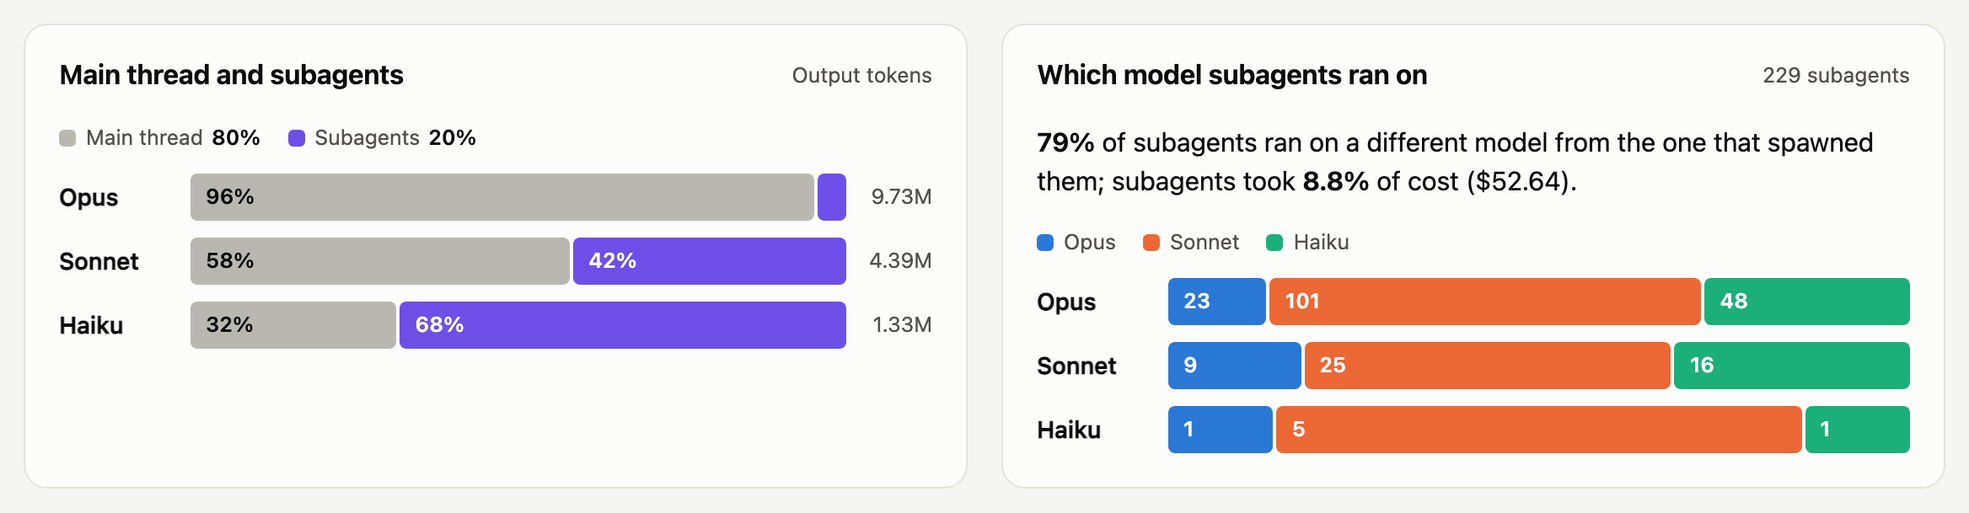
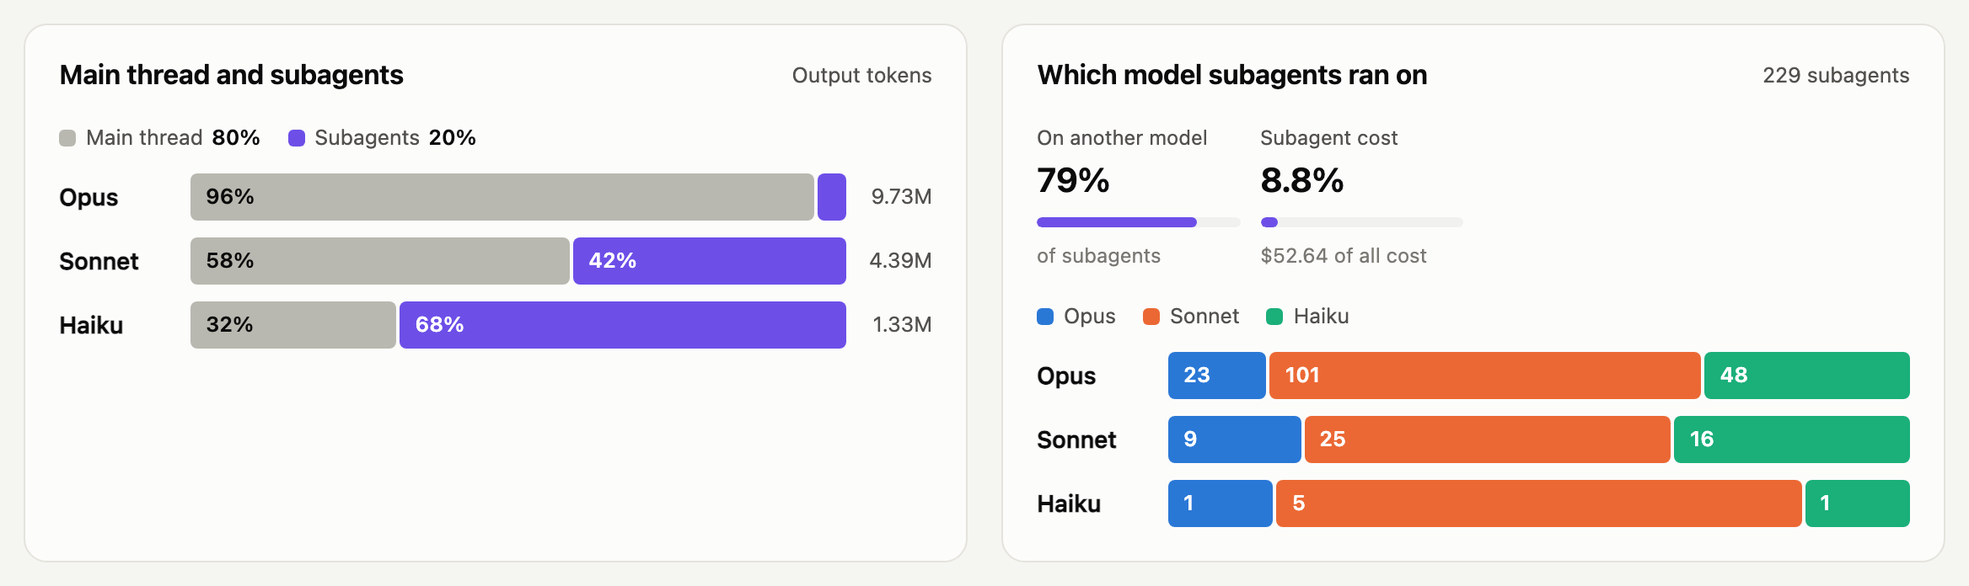
feat(dashboard): show card headlines as figures with meters and dots instead of sentences

diff --git a/dashboard/src/i18n.tsx b/dashboard/src/i18n.tsx
@@ -3,9 +3,9 @@ export const T = {
   vi: { usage: "Sử dụng", overview: "Tổng quan", projects: "Dự án", sessions: "Phiên làm việc", models: "Model & effort", subagents: "Subagent", activity: "Hoạt động",
     scanned: "Quét lúc", untitled: "(chưa có tiêu đề)", costUnknown: "Không có bản ghi chi phí của host", costEstimated: "Không có bản ghi chi phí của host; ước tính theo bảng giá", costPartial: "Host đánh dấu chi phí chưa đủ", today: "Hôm nay", perHour: "Theo giờ", hour: "Giờ", d7: "7 ngày", d14: "14 ngày", d30: "30 ngày", all: "Tất cả", dates: "Khoảng ngày", prevMonth: "Tháng trước", nextMonth: "Tháng sau", clear: "Xoá", allProjects: "Tất cả dự án", allModels: "Tất cả model", project: "Dự án", model: "Model", reset: "Bỏ lọc",
     out: "Output token", cost: "Chi phí", costList: "Chi phí niêm yết", sess: "Phiên", cache: "Đọc từ cache", saved: "Cache tiết kiệm", bars: "Dạng cột", areas: "Dạng vùng", shares: "Mỗi cột 100%", savedTip: "So với gửi lại cả context làm input ở mỗi request, đã trừ phần ghi cache trả thêm", perM: "$ / 1M token", behave: "Mỗi model làm việc thế nào", bOut: "Output mỗi request", bThink: "Thinking trong output", bSteps: "Request mỗi lượt owner", bTools: "Tool call mỗi request", bFail: "Tool call lỗi", bSpeed: "Tốc độ output", oneModel: "Phiên chỉ dùng model này", speed: "Tốc độ", tps: "token/giây", vsPrev: "so với kỳ trước", noPrev: "chưa có kỳ trước",
-    perDay: "Theo ngày", topProjects: "Dự án dùng nhiều nhất", seeAll: "Xem tất cả", hours: "Khung giờ làm việc", peak: "Cao điểm", toolCount: "công cụ", toolLead: (n: string, p: string, w: string, tool: string) => <><b>{n}</b> lượt lỗi ({p}); <b>{w}</b> trong số đó là {tool}.</>, idleLead: (usd: string, p: string) => <>Mỗi lần dựng lại sau khi nghỉ tốn thêm trung bình <b>{usd}</b>; <b>{p}</b> xảy ra sau hơn 1 giờ.</>, weekend: "Cuối tuần", sameHour: "Phiên cùng giờ", atMost: (n: string) => `thường vậy, nhiều nhất ${n}`, perTurn: "Agent làm mỗi lượt owner", topSessions: "Phiên lớn nhất", dailyTable: "Bảng số liệu theo ngày", hourlyTable: "Bảng số liệu theo giờ",
+    perDay: "Theo ngày", topProjects: "Dự án dùng nhiều nhất", seeAll: "Xem tất cả", hours: "Khung giờ làm việc", peak: "Cao điểm", perBreak: "Tốn thêm mỗi lần", onAverage: "trung bình", overHour: "Sau hơn 1 giờ", ofRebuilds: "số lần dựng lại", failed: "Lượt lỗi", ofCalls: (p: string) => `${p} số lượt gọi`, fromTool: (n: string) => `Từ ${n}`, ofFailures: "số lượt lỗi", otherModel: "Khác model đã gọi", ofSubagents: "số subagent", subCost: "Chi phí subagent", ofAllCost: (usd: string) => `${usd} trong tổng chi phí`, belowMain: "Thấp hơn mức phiên", aboveMain: "Cao hơn mức phiên", ofSubReq: "request của subagent", toolCount: "công cụ", weekend: "Cuối tuần", sameHour: "Phiên cùng giờ", atMost: (n: string) => `thường vậy, nhiều nhất ${n}`, perTurn: "Agent làm mỗi lượt owner", topSessions: "Phiên lớn nhất", dailyTable: "Bảng số liệu theo ngày", hourlyTable: "Bảng số liệu theo giờ",
     day: "Ngày", total: "Tổng", start: "Bắt đầu", title: "Tiêu đề", dur: "Thời lượng", turns: "Lượt owner", subs: "Subagent", activeDays: "Ngày hoạt động", mainModel: "Model chính", trend: "Xu hướng", other: "Khác", search: "Tìm tiêu đề, dự án…", shown: "phiên", more: "Hiện thêm",
-    requests: "Request", input: "Input", thinking: "Thinking", cacheRead: "Cache đọc", cacheWrite: "Cache ghi", share: "Tỷ trọng", allEfforts: "Mọi effort", effShare: "Mỗi mức effort chiếm bao nhiêu", leadMore: (n: string, q: string, c: string) => <><b>{n}</b> chiếm {q} số request nhưng tới <b>{c}</b> chi phí.</>, leadLess: (n: string, q: string, c: string) => <><b>{n}</b> chiếm {q} số request và chỉ {c} chi phí.</>, routedLead: (p: string, c: string, usd: string) => <><b>{p}</b> subagent chạy trên model khác với model đã gọi nó; subagent chiếm <b>{c}</b> chi phí ({usd}).</>, subEffLead: (lo: string | null, hi: string | null) => (lo && hi ? <><b>{lo}</b> request của subagent chạy ở effort thấp hơn mức chính của phiên và <b>{hi}</b> cao hơn.</> : lo ? <><b>{lo}</b> request của subagent chạy ở effort thấp hơn mức chính của phiên, không request nào cao hơn.</> : hi ? <><b>{hi}</b> request của subagent chạy ở effort cao hơn mức chính của phiên, không request nào thấp hơn.</> : <>Mọi request của subagent chạy đúng mức effort chính của phiên.</>), price: "Output mỗi request theo mức effort", priceInfo: "Số lớn là output trung bình mỗi request ở mức đó, thinking tính cả. Phần lớn phiên giữ một mức suốt phiên, nên so thẳng hai mức là so hai nhóm việc khác nhau. Vì vậy dòng \"× high\" chỉ so trong những phiên chạy cả mức đó lẫn high, mỗi mức ít nhất 5 request, rồi lấy trung vị. Dưới 3 phiên như vậy thì không ghi.", vsLevel: "So với", nBoth: (n: number) => `trong ${n} phiên chạy cả hai mức`, fewBoth: (n: number) => (n ? `chỉ ${n} phiên chạy cả hai mức, chưa đủ để so` : "chưa phiên nào chạy cả hai mức"), perReq: "/ request", costShare: "Tỷ trọng chi phí", subEffort: "Effort của subagent", switches: "phiên đã đổi effort", effort: "Effort", subTypes: "Subagent theo loại", count: "Số lần", ranOn: "Chạy trên",
+    requests: "Request", input: "Input", thinking: "Thinking", cacheRead: "Cache đọc", cacheWrite: "Cache ghi", share: "Tỷ trọng", allEfforts: "Mọi effort", effShare: "Mỗi mức effort chiếm bao nhiêu", leadMore: (n: string, q: string, c: string) => <><b>{n}</b> chiếm {q} số request nhưng tới <b>{c}</b> chi phí.</>, leadLess: (n: string, q: string, c: string) => <><b>{n}</b> chiếm {q} số request và chỉ {c} chi phí.</>, price: "Output mỗi request theo mức effort", priceInfo: "Số lớn là output trung bình mỗi request ở mức đó, thinking tính cả. Phần lớn phiên giữ một mức suốt phiên, nên so thẳng hai mức là so hai nhóm việc khác nhau. Vì vậy dòng \"× high\" chỉ so trong những phiên chạy cả mức đó lẫn high, mỗi mức ít nhất 5 request, rồi lấy trung vị. Dưới 3 phiên như vậy thì không ghi.", vsLevel: "So với", nBoth: (n: number) => `trong ${n} phiên chạy cả hai mức`, fewBoth: (n: number) => (n ? `chỉ ${n} phiên chạy cả hai mức, chưa đủ để so` : "chưa phiên nào chạy cả hai mức"), perReq: "/ request", costShare: "Tỷ trọng chi phí", subEffort: "Effort của subagent", switches: "phiên đã đổi effort", effort: "Effort", subTypes: "Subagent theo loại", count: "Số lần", ranOn: "Chạy trên",
     rebuilt: "Cache bị dựng lại", rbIdle: "Sau khi nghỉ", rbCompaction: "Khi nén context", rbOther: "Khác", rbStart: "Đầu phiên", rbIdleTip: "quay lại sau khi cache hết hạn (5 phút, hoặc 1 giờ nếu dùng cache 1h). Đây là phần tránh được.", rbCompactionTip: "context vừa được nén nên phải ghi lại.", rbOtherTip: "phần đầu prompt đổi mà transcript không cho biết lý do.", rbStartTip: "request đầu của phiên hoặc subagent, không tránh được.",
     rbInfo: "Mỗi request đọc lại cuộc trò chuyện từ prompt cache với giá rẻ. Khi cache mất, request đó phải ghi lại gần hết context vào cache, đắt gấp 25–40 lần đọc. Bảng đếm các lần ghi lại theo nguyên nhân; chi phí thêm là phần trả hơn so với chỉ đọc.", howToRead: "Cách đọc",
     rbTokens: "Token ghi lại", rbExtra: "Chi phí thêm", gapShort: "5–15 phút", gapMid: "15–60 phút", gapLong: "Trên 1 giờ", idleGap: "Đã nghỉ bao lâu trước lần dựng lại", lapses: "Cache hết hạn", session: "Phiên", modelEffort: "Model · effort", nSubs: (n: number) => `${n} subagent`, nLapses: (n: number) => `${n} lần cache hết hạn`, onlySub: "chỉ chạy làm subagent, không trả lời owner", fewReq: (n: string) => `chỉ ${n} request, chưa đủ 20`, fewTurns: (n: string) => `chỉ ${n} lượt owner, chưa đủ 20`, fewCalls: (n: string) => `chỉ ${n} tool call, chưa đủ 20`, fewAlone: (n: number) => (n ? `chỉ ${n} phiên dùng riêng model này, chưa đủ 3` : "không phiên nào dùng riêng model này"),
@@ -17,9 +17,9 @@ export const T = {
   en: { usage: "Usage", overview: "Overview", projects: "Projects", sessions: "Sessions", models: "Models & effort", subagents: "Subagents", activity: "Activity",
     scanned: "Scanned", untitled: "(untitled)", costUnknown: "No cost record from the host", costEstimated: "No cost record from the host; estimated from the price table", costPartial: "The host marked this cost incomplete", today: "Today", perHour: "Per hour", hour: "Hour", d7: "7 days", d14: "14 days", d30: "30 days", all: "All", dates: "Date range", prevMonth: "Previous month", nextMonth: "Next month", clear: "Clear", allProjects: "All projects", allModels: "All models", project: "Project", model: "Model", reset: "Clear filters",
     out: "Output tokens", cost: "Cost", costList: "List-price cost", sess: "Sessions", cache: "Read from cache", saved: "Saved by cache", bars: "Columns", areas: "Areas", shares: "Each column as 100%", savedTip: "Against sending the whole context as input on every request, less what cache writes cost extra", perM: "$ / 1M tokens", behave: "How each model works", bOut: "Output per request", bThink: "Thinking share of output", bSteps: "Requests per owner turn", bTools: "Tool calls per request", bFail: "Failed tool calls", bSpeed: "Output speed", oneModel: "Sessions on this model only", speed: "Speed", tps: "tokens/s", vsPrev: "vs prev. period", noPrev: "no previous period",
-    perDay: "Per day", topProjects: "Top projects", seeAll: "See all", hours: "Working hours", peak: "Peak", toolCount: "tools", toolLead: (n: string, p: string, w: string, tool: string) => <><b>{n}</b> calls failed ({p}); <b>{w}</b> of them were {tool}.</>, idleLead: (usd: string, p: string) => <>Each rebuild after a break cost <b>{usd}</b> extra on average; <b>{p}</b> came after more than an hour.</>, weekend: "Weekends", sameHour: "Same-hour sessions", atMost: (n: string) => `typical, at most ${n}`, perTurn: "Agent work per owner turn", topSessions: "Largest sessions", dailyTable: "Daily figures", hourlyTable: "Hourly figures",
+    perDay: "Per day", topProjects: "Top projects", seeAll: "See all", hours: "Working hours", peak: "Peak", perBreak: "Extra per rebuild", onAverage: "on average", overHour: "After over an hour", ofRebuilds: "of rebuilds", failed: "Failed calls", ofCalls: (p: string) => `${p} of calls`, fromTool: (n: string) => `From ${n}`, ofFailures: "of failures", otherModel: "On another model", ofSubagents: "of subagents", subCost: "Subagent cost", ofAllCost: (usd: string) => `${usd} of all cost`, belowMain: "Below session level", aboveMain: "Above session level", ofSubReq: "of subagent requests", toolCount: "tools", weekend: "Weekends", sameHour: "Same-hour sessions", atMost: (n: string) => `typical, at most ${n}`, perTurn: "Agent work per owner turn", topSessions: "Largest sessions", dailyTable: "Daily figures", hourlyTable: "Hourly figures",
     day: "Day", total: "Total", start: "Start", title: "Title", dur: "Duration", turns: "Owner turns", subs: "Subagents", activeDays: "Active days", mainModel: "Main model", trend: "Trend", other: "Other", search: "Search title, project…", shown: "sessions", more: "Show more",
-    requests: "Requests", input: "Input", thinking: "Thinking", cacheRead: "Cache read", cacheWrite: "Cache write", share: "Share", allEfforts: "All efforts", effShare: "How much each effort level takes", leadMore: (n: string, q: string, c: string) => <><b>{n}</b> is {q} of requests but <b>{c}</b> of cost.</>, leadLess: (n: string, q: string, c: string) => <><b>{n}</b> is {q} of requests and only {c} of cost.</>, routedLead: (p: string, c: string, usd: string) => <><b>{p}</b> of subagents ran on a different model from the one that spawned them; subagents took <b>{c}</b> of cost ({usd}).</>, subEffLead: (lo: string | null, hi: string | null) => (lo && hi ? <><b>{lo}</b> of subagent requests ran below the session's main effort level and <b>{hi}</b> above.</> : lo ? <><b>{lo}</b> of subagent requests ran below the session's main effort level, none above.</> : hi ? <><b>{hi}</b> of subagent requests ran above the session's main effort level, none below.</> : <>Every subagent request ran at the session's main effort level.</>), price: "Output per request by effort level", priceInfo: "The large figure is the average output of one request at that level, thinking included. Most sessions keep one level throughout, so comparing two levels directly compares different work. The \"× high\" line therefore compares only sessions that ran both that level and high, with at least 5 requests at each, and takes the median. With fewer than 3 such sessions it is left out.", vsLevel: "Against", nBoth: (n: number) => `in ${n} session${n === 1 ? "" : "s"} that ran both levels`, fewBoth: (n: number) => (n ? `only ${n} session${n === 1 ? "" : "s"} ran both levels, too few to compare` : "no session ran both levels"), perReq: "/ request", costShare: "Share of cost", subEffort: "Subagent effort", switches: "sessions changed effort", effort: "Effort", subTypes: "Subagents by type", count: "Count", ranOn: "Ran on",
+    requests: "Requests", input: "Input", thinking: "Thinking", cacheRead: "Cache read", cacheWrite: "Cache write", share: "Share", allEfforts: "All efforts", effShare: "How much each effort level takes", leadMore: (n: string, q: string, c: string) => <><b>{n}</b> is {q} of requests but <b>{c}</b> of cost.</>, leadLess: (n: string, q: string, c: string) => <><b>{n}</b> is {q} of requests and only {c} of cost.</>, price: "Output per request by effort level", priceInfo: "The large figure is the average output of one request at that level, thinking included. Most sessions keep one level throughout, so comparing two levels directly compares different work. The \"× high\" line therefore compares only sessions that ran both that level and high, with at least 5 requests at each, and takes the median. With fewer than 3 such sessions it is left out.", vsLevel: "Against", nBoth: (n: number) => `in ${n} session${n === 1 ? "" : "s"} that ran both levels`, fewBoth: (n: number) => (n ? `only ${n} session${n === 1 ? "" : "s"} ran both levels, too few to compare` : "no session ran both levels"), perReq: "/ request", costShare: "Share of cost", subEffort: "Subagent effort", switches: "sessions changed effort", effort: "Effort", subTypes: "Subagents by type", count: "Count", ranOn: "Ran on",
     rebuilt: "Cache rebuilt", rbIdle: "After idle", rbCompaction: "At compaction", rbOther: "Other", rbStart: "At session start", rbIdleTip: "returned after the cache expired (5 minutes, or 1 hour with 1h cache). The avoidable part.", rbCompactionTip: "the context was just compacted.", rbOtherTip: "the start of the prompt changed for a reason the transcript does not show.", rbStartTip: "the first request of a session or subagent, unavoidable.",
     rbInfo: "Each request rereads the conversation from the prompt cache at a low price. When the cache is gone, the request writes most of the context into it again, at 25–40 times the read price. The table counts these rewrites by cause; extra cost is what they cost beyond a read.", howToRead: "How to read",
     rbTokens: "Rewritten tokens", rbExtra: "Extra cost", gapShort: "5–15 min", gapMid: "15–60 min", gapLong: "Over 1 h", idleGap: "Idle time before the rebuild", lapses: "Cache lapses", session: "Session", modelEffort: "Model · effort", nSubs: (n: number) => `${n} subagent${n === 1 ? "" : "s"}`, nLapses: (n: number) => `${n} cache lapse${n === 1 ? "" : "s"}`, onlySub: "runs only as a subagent, never answering the owner", fewReq: (n: string) => `only ${n} requests, fewer than 20`, fewTurns: (n: string) => `only ${n} owner turns, fewer than 20`, fewCalls: (n: string) => `only ${n} tool calls, fewer than 20`, fewAlone: (n: number) => (n ? `only ${n} session${n === 1 ? "" : "s"} on this model alone, fewer than 3` : "no session ran this model alone"),

diff --git a/dashboard/src/styles.css b/dashboard/src/styles.css
@@ -100,6 +100,7 @@ td .spark { margin: 0; }
 :root[data-theme="dark"] .split i.v3, :root[data-theme="dark"] .split i.v4 { color: #0b0b0b; }
 .lead { margin: 0 0 16px; font-size: 15.5px; line-height: 1.5; }
 .lead b { font-weight: 650; }
+.lead.accent { padding: 2px 0 2px 12px; border-left: 3px solid; }
 .shares { display: grid; grid-template-columns: max-content minmax(0, 1fr); align-items: center; gap: 10px 14px; }
 .shares > span { color: var(--ink2); font-size: 12.5px; }
 .shares .split { margin: 0; }
@@ -163,8 +164,12 @@ tbody tr.go:hover td, tbody tr.go:hover th { background: var(--wash); }
 .heat .cell { aspect-ratio: 1 / 1; max-height: 26px; width: 100%; border-radius: 3px; background: color-mix(in srgb, var(--seq) var(--m), var(--wash)); }
 .heat .cell:hover { outline: 2px solid var(--ink); outline-offset: -1px; }
 .hstats { display: grid; grid-template-columns: repeat(4, minmax(0, 1fr)); gap: 12px; margin: 18px 0 0; }
-.hstats div { display: grid; gap: 2px; min-width: 0; }
-.hstats dt { color: var(--ink2); font-size: 12px; } .hstats dd { margin: 0; font-size: 18px; font-weight: 600; white-space: nowrap; } .hstats span { color: var(--muted); font-size: 12px; }
+.hstats div { display: grid; align-content: start; gap: 2px; min-width: 0; }
+.hstats dt { color: var(--ink2); font-size: 12px; } .hstats dd { display: flex; align-items: center; gap: 7px; margin: 0; font-size: 20px; font-weight: 650; white-space: nowrap; } .hstats .sub { color: var(--muted); font-size: 12px; }
+.hstats dd.err { color: var(--neg); } .hstats + .rank, .hstats + .legend, .hstats + .rows { margin-top: 18px; } .lead + .hstats, header + .hstats { margin-top: 2px; }
+.hstats .gap { display: block; height: 16px; } .hstats .meter { display: block; height: 6px; margin: 6px 0 4px; border-radius: 3px; background: var(--wash); overflow: hidden; } .hstats .meter i { display: block; height: 100%; border-radius: 3px; }
+.hstats .dots { display: flex; flex-wrap: wrap; align-items: center; gap: 3px; height: 7px; margin: 5px 0 4px; } .hstats .dots i { width: 7px; height: 7px; border-radius: 50%; background: var(--wash); box-shadow: inset 0 0 0 1px var(--base); } .hstats .dots i.on { background: var(--seq); box-shadow: none; }
+.hstats .hsw { width: 12px; height: 12px; border-radius: 3px; background: color-mix(in srgb, var(--seq) var(--m), var(--wash)); } .cseq { background: var(--seq); } .cneg { background: var(--neg); }
 .split { display: flex; gap: 2px; height: 28px; margin: 4px 0 12px; }
 .split i { display: flex; align-items: center; padding: 0 9px; border-radius: 4px; color: #fff; font-size: 12.5px; font-style: normal; font-weight: 600; overflow: hidden; white-space: nowrap; } .split i:empty { padding: 0; }
 .split i.c4 { color: #0b0b0b; } .split i.c0 { color: var(--ink); }

diff --git a/dashboard/src/views/Subagents.tsx b/dashboard/src/views/Subagents.tsx
@@ -1,6 +1,6 @@
 import { useDash } from "../dash.ts";
 import { mainLevel, totals, type Fact } from "../model.ts";
-import { Empty, Legend, Mix, tip, type TipRow } from "../ui.tsx";
+import { Empty, Legend, Mix, Stats, tip, type TipRow } from "../ui.tsx";
 
 // The subagent story: how much of each model's output subagents wrote, which models each parent model's subagents
 // ran on, the subagent types, and the effort they ran at, which is often not the parent's.
@@ -32,7 +32,7 @@ export function Subagents({ F }: { F: Fact[] }) {
     if (p < 0 || p > 4 || x.e > 4) continue;
     if (x.e < p) lo += x.q; else if (x.e > p) hi += x.q; else same += x.q;
   }
-  const ranked = lo + hi + same, pct = (v: number) => (v ? f.pct(v / ranked) : null);
+  const ranked = lo + hi + same;
   const subEff = M.models.map((n, m) => ({ n, m, c: subLv.map((e) => SF.reduce((a, x) => a + (x.m === m && x.e === e ? x.q : 0), 0)) })).filter((r) => r.c.some(Boolean));
   return (
     <div className="stack">
@@ -54,7 +54,10 @@ export function Subagents({ F }: { F: Fact[] }) {
         </section>
         <section className="card">
           <header><h2>{t("routedTitle")}</h2><span className="hint">{f.int(subs.length)} {t("subs").toLowerCase()}</span></header>
-          {subs.length ? <p className="lead">{L.routedLead(f.pct(moved / subs.length), f.pct(subCost / (all.c || 1)), f.usd(subCost))}</p> : null}
+          {subs.length ? <Stats items={[
+            { label: t("otherModel"), value: f.pct(moved / subs.length), meter: [moved / subs.length, "csub"], sub: t("ofSubagents") },
+            { label: t("subCost"), value: f.pct(subCost / (all.c || 1)), meter: [subCost / (all.c || 1), "csub"], sub: L.ofAllCost(f.usd(subCost)) },
+          ]} /> : null}
           <Legend groups={models} metric="sess" />
           {routes.length ? <div className="rows">{routes.map((r) => {
             const sum = r.row.reduce((a, b) => a + b, 0);
@@ -77,7 +80,10 @@ export function Subagents({ F }: { F: Fact[] }) {
         </section>
         <section className="card">
           <header><h2>{t("subEffort")}</h2><span className="hint">{t("requests").toLowerCase()}</span></header>
-          {ranked ? <p className="lead">{L.subEffLead(pct(lo), pct(hi))}</p> : null}
+          {ranked ? <Stats items={[
+            { label: t("belowMain"), value: f.pct(lo / ranked), meter: [lo / ranked, "v1"], sub: t("ofSubReq") },
+            { label: t("aboveMain"), value: f.pct(hi / ranked), meter: [hi / ranked, "v3"], sub: t("ofSubReq") },
+          ]} /> : null}
           {subEff.length ? <>
             <Legend groups={subLv.map((e) => ({ n: M.efforts[e], c: "v" + e }))} metric="sess" />
             <div className="rows">{subEff.map((r) => {

diff --git a/dashboard/src/views/Activity.tsx b/dashboard/src/views/Activity.tsx
@@ -1,7 +1,7 @@
 import { Fragment, useState, type ReactNode } from "react";
 import { useDash } from "../dash.ts";
 import { dayAdd, rebuilds, skillUses, slice, slotsOf, toolCalls, type Fact, type Model, type Session } from "../model.ts";
-import { ChartSeg, Columns, Delta, Empty, Heat, HeatSeg, Info, Kpi, tip } from "../ui.tsx";
+import { ChartSeg, Columns, Delta, Empty, Heat, HeatSeg, Info, Kpi, Stats, tip } from "../ui.tsx";
 
 // What the agent did: time on the model and on tools, owner turns, lines, compactions and agent time per owner turn
 // against the window before; working time per day beside the hours of the week it fell in; lines per day; where the cache was rebuilt;
@@ -78,7 +78,10 @@ function Tools({ ids }: { ids: number[] }) {
   return (
     <section className="card">
       <header><h2>{t("tools")}</h2><span className="hint">{f.int(calls)} {t("calls")} · {f.int(rows.length)} {t("toolCount")}</span></header>
-      {errs ? <p className="lead">{L.toolLead(f.int(errs), f.pct(errs / calls), f.pct(worst[1][1] / errs), worst[0])}</p> : null}
+      {errs ? <Stats items={[
+        { label: t("failed"), value: f.int(errs), tone: "err", sub: L.ofCalls(f.pct(errs / calls)) },
+        { label: L.fromTool(worst[0]), value: f.pct(worst[1][1] / errs), meter: [worst[1][1] / errs, "cneg"], sub: t("ofFailures") },
+      ]} /> : null}
       {rows.length ? <div className="rank tools">{shown.map(([n, [c, e]]) => [
         <span key={`n${n}`} className="n" title={n}>{n}</span>,
         <span key={`t${n}`} className="t"><span className="b" style={{ width: `${(c / tmax) * 100}%` }} data-tip={tip(n, [["c1", t("calls"), f.int(c)], ["neg", t("errors"), f.int(e)]])}>{e ? <i style={{ width: `max(2px, ${(e / c) * 100}%)` }} /> : null}</span></span>,
@@ -159,7 +162,10 @@ function Rebuilds({ F }: { F: Fact[] }) {
       </section>
       <section className="card">
         <header><h2>{t("idleGap")}</h2><span className="hint">{t("rbIdle")}: {f.int(r.idle.n)}</span></header>
-        {r.idle.n ? <p className="lead">{L.idleLead(f.usd(r.idle.extra / r.idle.n), f.pct(r.gaps[2] / r.idle.n))}</p> : null}
+        {r.idle.n ? <Stats items={[
+          { label: t("perBreak"), value: f.usd(r.idle.extra / r.idle.n), sub: t("onAverage") },
+          { label: t("overHour"), value: f.pct(r.gaps[2] / r.idle.n), meter: [r.gaps[2] / r.idle.n, "c1"], sub: t("ofRebuilds") },
+        ]} /> : null}
         {r.idle.n ? <div className="rank">{gaps.map((label, k) => [
           <span key={`n${k}`} className="n">{label}</span>,
           <span key={`t${k}`} className="t">{r.gaps[k] ? <span className="b" style={{ width: `${(r.gaps[k] / gmax) * 100}%` }} /> : null}</span>,

diff --git a/dashboard/src/ui.tsx b/dashboard/src/ui.tsx
@@ -203,13 +203,34 @@ export function Heat({ F, by }: { F: Fact[]; by: "req" | "out" }) {
         <span />
         {Array.from({ length: 24 }, (_, h) => <span key={`l${h}`} className="cl">{h % 3 === 0 ? h : ""}</span>)}
       </div>
-      <dl className="hstats">
-        <div><dt>{t("peak")}</dt><dd>{L.wd[peak[0]]}, {peak[1]}:00</dd><span>{show(max)} {label.toLowerCase()}</span></div>
-        <div><dt>{t("weekend")}</dt><dd>{f.pct(weekend / all)}</dd><span>{label.toLowerCase()}</span></div>
-        <div><dt>22:00–6:00</dt><dd>{f.pct(night / all)}</dd><span>{label.toLowerCase()}</span></div>
-        <div><dt>{t("sameHour")}</dt><dd>{f.int(mid)}</dd><span>{L.atMost(f.int(most))}</span></div>
-      </dl>
+      <Stats items={[
+        { label: t("peak"), value: <><i className="hsw" style={m("90%")} />{L.wd[peak[0]]}, {peak[1]}:00</>, sub: `${show(max)} ${label.toLowerCase()}` },
+        { label: t("weekend"), value: f.pct(weekend / all), meter: [weekend / all, "cseq"], sub: label.toLowerCase() },
+        { label: "22:00–6:00", value: f.pct(night / all), meter: [night / all, "cseq"], sub: label.toLowerCase() },
+        { label: t("sameHour"), value: f.int(mid), dots: [mid, most], sub: L.atMost(f.int(most)) },
+      ]} />
     </>
+  );
+}
+
+// A row of figures under a chart: a label, the figure, and under it a meter (a share, in a series color), dots (a typical
+// count out of the most) or a line of context. tone colors the figure itself, for errors only; money stays neutral.
+export type Stat = { label: ReactNode; value: ReactNode; sub?: ReactNode; meter?: [number, string]; dots?: [number, number]; tone?: string };
+export function Stats({ items }: { items: Stat[] }) {
+  return (
+    <dl className="hstats">
+      {items.map((x, k) => (
+        <div key={k}>
+          <dt>{x.label}</dt>
+          <dd className={x.tone}>{x.value}</dd>
+          {x.meter ? <span className="meter"><i className={x.meter[1]} style={{ width: `${Math.min(1, Math.max(0, x.meter[0])) * 100}%` }} /></span> : null}
+          {x.dots && x.dots[1] <= 20 ? <span className="dots">{Array.from({ length: x.dots[1] }, (_, i) => <i key={i} className={i < x.dots![0] ? "on" : ""} />)}</span> : null}
+          {/* Keeps the line under the figure level with the tiles that draw a meter or dots. */}
+          {!x.meter && !(x.dots && x.dots[1] <= 20) && items.some((y) => y.meter || y.dots) ? <span className="gap" /> : null}
+          {x.sub ? <span className="sub">{x.sub}</span> : null}
+        </div>
+      ))}
+    </dl>
   );
 }
 

diff --git a/dashboard/src/views/Models.tsx b/dashboard/src/views/Models.tsx
@@ -109,7 +109,7 @@ function Efforts({ F }: { F: Fact[] }) {
   const q = total((x) => x.q), o = total((x) => x.o), th = total((x) => x.th), c = total((x) => x.c), sq = share(q), so = share(o), sth = share(th), sc = share(c);
   let k = 0;
   lv.forEach((_, i) => { if (Math.abs(sc[i] - sq[i]) > Math.abs(sc[k] - sq[k])) k = i; });
-  const lead = lv.length > 1 ? <p className="lead">{(sc[k] >= sq[k] ? L.leadMore : L.leadLess)(M.efforts[lv[k]], f.pct(sq[k]), f.pct(sc[k]))}</p> : null;
+  const lead = lv.length > 1 ? <p className="lead accent" style={{ borderColor: `var(--v${lv[k]}, var(--s0))` }}>{(sc[k] >= sq[k] ? L.leadMore : L.leadLess)(M.efforts[lv[k]], f.pct(sq[k]), f.pct(sc[k]))}</p> : null;
   const bar = (label: string, sh: number[], raw: number[], fm: (n: number) => string) => [
     <span key={`l${label}`}>{label}</span>,
     <div key={`b${label}`} className="split">{lv.map((e, i) => (sh[i] ? <i key={e} className={`v${e}`} style={{ width: `${sh[i] * 100}%` }} data-tip={tip(M.efforts[e], [["v" + e, label, fm(raw[i]) + " · " + f.pct(sh[i])]])}>{sh[i] >= 0.14 ? f.pct(sh[i]) : ""}</i> : null))}</div>,
